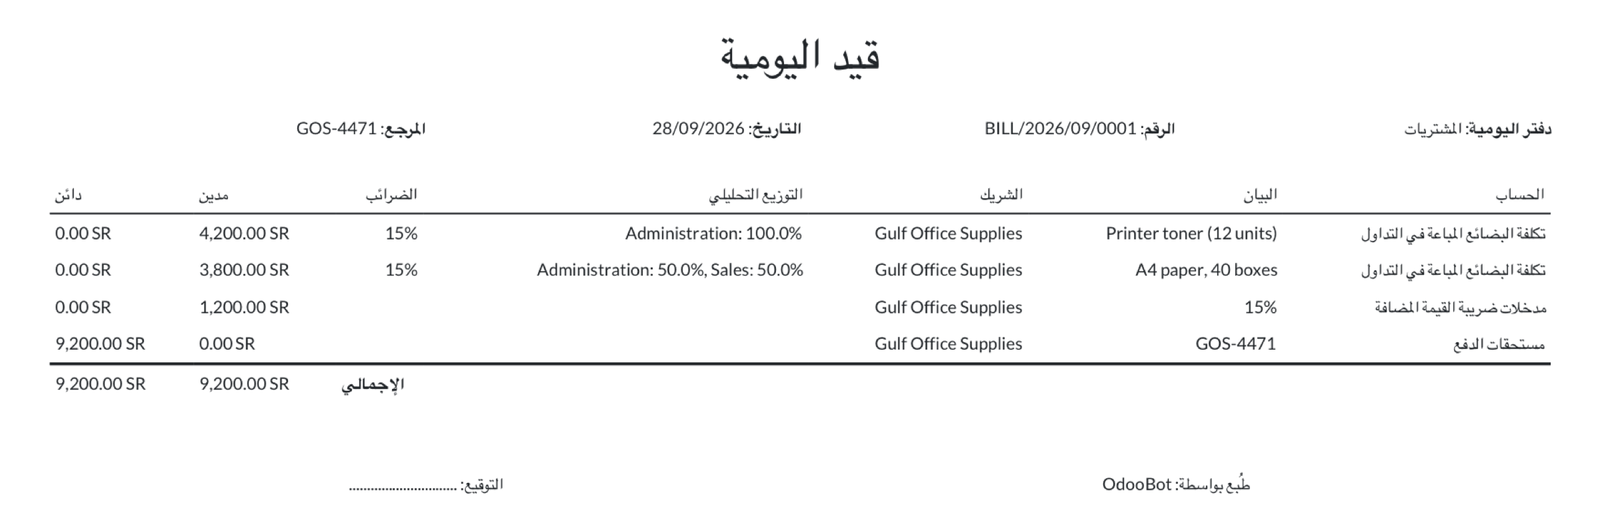
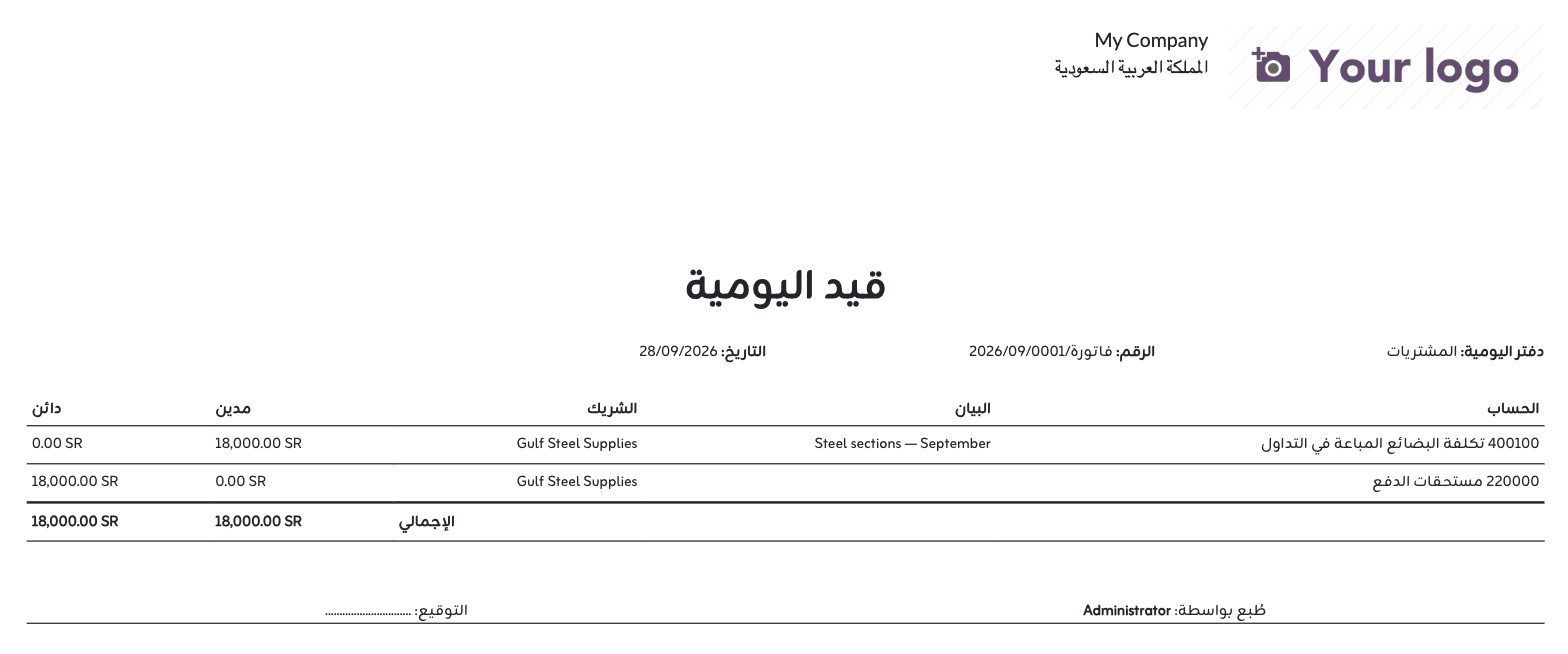
20.0 listing: screenshots from a live Odoo 20 database, English and Arabic

diff --git a/sbs_journal_entry_report/static/description/index.html b/sbs_journal_entry_report/static/description/index.html
@@ -43,7 +43,7 @@
     <div class="oe_row oe_spaced">
         <div class="oe_span12 text-center">
             <h2 class="oe_slogan">The report, on a real entry</h2>
-            <p class="oe_mt16">A rent accrual split across two analytic plans, printed from Odoo 20.0.</p>
+            <p class="oe_mt16">A customer invoice with 15% VAT, printed from a live Odoo 20.0 database.</p>
             <img src="screenshot-report.png" alt="Journal Entry Landscape report in English" style="max-width:100%;border:1px solid #ddd;margin-top:12px"/>
         </div>
     </div>
